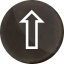
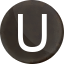
touch controls appended

Changed region(s): [[0.2812, 0.1562, 0.75, 0.8125]]

diff --git a/dn1Online/src/game.js b/dn1Online/src/game.js
@@ -63,8 +63,16 @@ function GameScene() {
 	this.key_JUMP = null
 	this.key_FIRE = null
 	this.key_USE = null
+	this.touch_RIGHT = {isDown: false}
+	this.touch_LEFT = {isDown: false}
+	this.touch_JUMP = {isDown: false}
+	this.touch_FIRE = {isDown: false}
+	this.touch_USE = {isDown: false}
 	this.aButton = null
 	this.bButton = null
+	this.leftButton = null
+	this.rightButton = null
+	this.upButton = null
 
 	// sound opjects
 	this.heroStepSound = null
@@ -138,17 +146,66 @@ GameScene.prototype.create = function() {
 	this.cameras.main.startFollow(this.hero)
 
 	// constrols
-	this.aButton = this.add.sprite(this.scale.canvas.width - 65, this.scale.canvas.height - 150, 'aButton').setOrigin(0)
+	this.aButton = this.add.sprite(this.scale.canvas.width - 65, this.scale.canvas.height - 150, 'aButton')
+	this.aButton.setOrigin(0)
+	this.aButton.setInteractive()
 	this.aButton.setDepth(101)
 	this.aButton.setScrollFactor(0,0)
+	this.aButton.on('pointerdown', (pointer) => {
+		this.touch_JUMP.isDown = true
+	})
+	this.aButton.on('pointerup', (pointer) => {
+		this.touch_JUMP.isDown = false
+	})
 	this.bButton = this.add.sprite(this.scale.canvas.width - 100, this.scale.canvas.height - 80, 'bButton').setOrigin(0)
+	this.bButton.setOrigin(0)
+	this.bButton.setInteractive()
 	this.bButton.setDepth(101)
 	this.bButton.setScrollFactor(0,0)
+	this.bButton.on('pointerdown', (pointer) => {
+		this.touch_FIRE.isDown = true
+	})
+	this.bButton.on('pointerup', (pointer) => {
+		this.touch_FIRE.isDown = false
+	})
+	this.leftButton = this.add.sprite(5, this.scale.canvas.height - 150, 'leftButton').setOrigin(0)
+	this.leftButton.setOrigin(0)
+	this.leftButton.setInteractive()
+	this.leftButton.setDepth(101)
+	this.leftButton.setScrollFactor(0,0)
+	this.leftButton.on('pointerdown', (pointer) => {
+		this.touch_LEFT.isDown = true
+	})
+	this.leftButton.on('pointerup', (pointer) => {
+		this.touch_LEFT.isDown = false
+	})
+	this.rightButton = this.add.sprite(40, this.scale.canvas.height - 80, 'rightButton').setOrigin(0)
+	this.rightButton.setOrigin(0)
+	this.rightButton.setInteractive()
+	this.rightButton.setDepth(101)
+	this.rightButton.setScrollFactor(0,0)
+	this.rightButton.on('pointerdown', (pointer) => {
+		this.touch_RIGHT.isDown = true
+	})
+	this.rightButton.on('pointerup', (pointer) => {
+		this.touch_RIGHT.isDown = false
+	})
+	this.upButton = this.add.sprite(40, this.scale.canvas.height - 250, 'upButton').setOrigin(0)
+	this.upButton.setOrigin(0)
+	this.upButton.setInteractive()
+	this.upButton.setDepth(101)
+	this.upButton.setScrollFactor(0,0)
+	this.upButton.on('pointerdown', (pointer) => {
+		this.touch_USE.isDown = true
+	})
+	this.upButton.on('pointerup', (pointer) => {
+		this.touch_USE.isDown = false
+	})
 }
 
 GameScene.prototype.update = function (time, delta) {
 	// hero movement -->
-	if (this.key_LEFT.isDown) {
+	if (this.key_LEFT.isDown || this.touch_LEFT.isDown) {
 		if(this.hero.body.onFloor()) {
 			if (!this.heroStepSound.isPlaying) {
 				this.heroStepSound.play()
@@ -168,7 +225,7 @@ GameScene.prototype.update = function (time, delta) {
 			}
 		}
 		this.lastDir = 'left'
-  } else if (this.key_RIGHT.isDown) {
+  } else if (this.key_RIGHT.isDown || this.touch_RIGHT.isDown) {
 		if(this.hero.body.onFloor()) {
 			if (!this.heroStepSound.isPlaying) {
 				this.heroStepSound.play()
@@ -204,7 +261,7 @@ GameScene.prototype.update = function (time, delta) {
 			}
 		}
 	}
-	if (this.key_JUMP.isDown && (this.hero.body.onFloor() || this.hero.body.touching.down)) {
+	if ((this.touch_JUMP.isDown || this.key_JUMP.isDown) && (this.hero.body.onFloor() || this.hero.body.touching.down)) {
 		this.hero.setVelocityY(-185)
 		if (!this.heroJumpSound.isPlaying) {
 			this.heroJumpSound.play()
@@ -212,7 +269,7 @@ GameScene.prototype.update = function (time, delta) {
 	}
 	// <-- hero movement
 	// fire -->
-	if (this.key_FIRE.isDown && this.gunCoolsDown <= 0) {
+	if ((this.touch_FIRE.isDown || this.key_FIRE.isDown) && this.gunCoolsDown <= 0) {
 		if (!this.heroFiresSound.isPlaying) {
 			this.heroFiresSound.play()
 		}
@@ -227,7 +284,7 @@ GameScene.prototype.update = function (time, delta) {
 	}
 	// <-- fire
 	// use -->
-	if (this.key_USE.isDown) {
+	if (this.key_USE.isDown || this.touch_USE.isDown) {
 		this.elevators.forEach((elevator) => {
 			elevator.enable()
 		})
